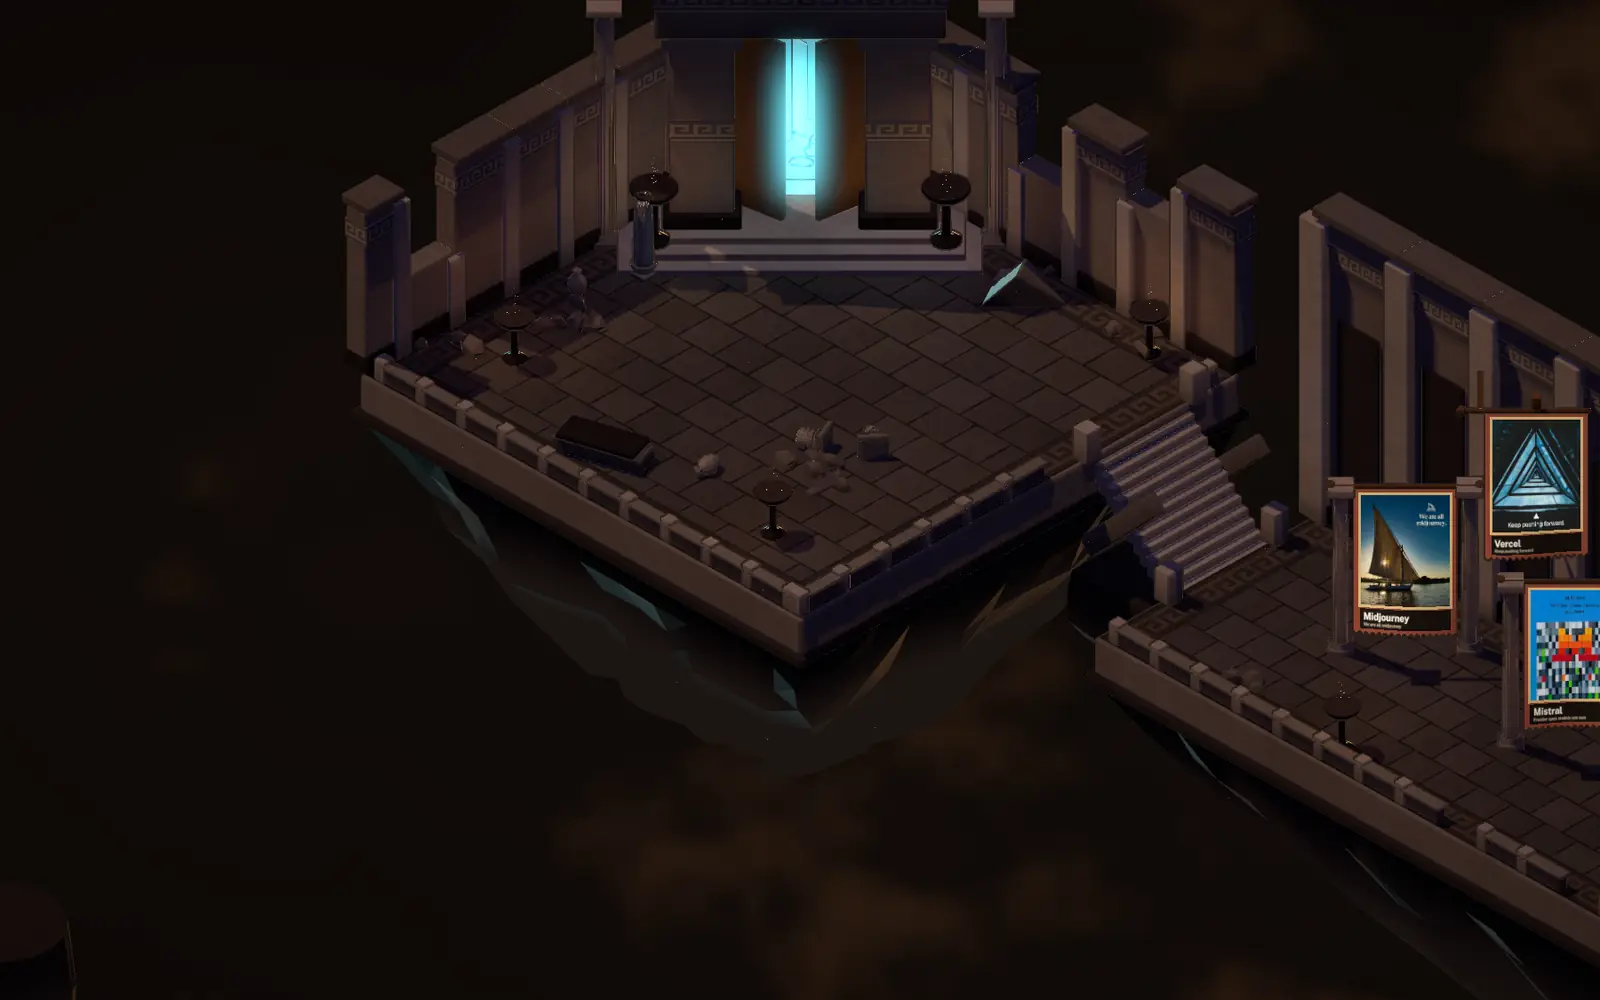
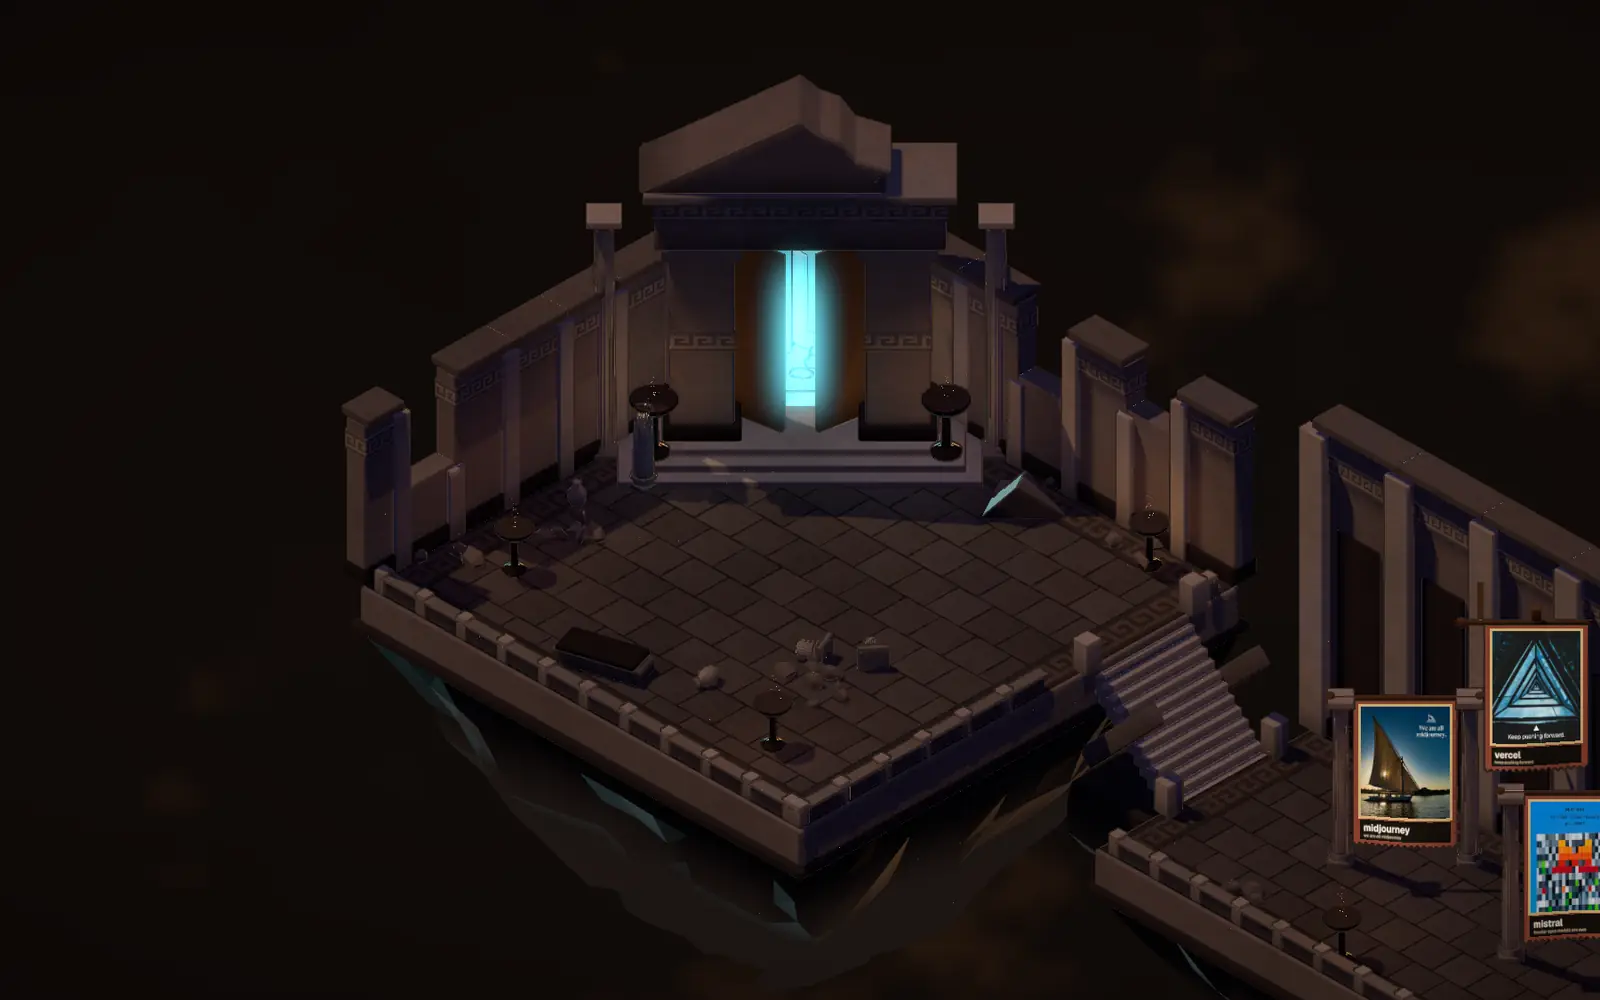
Hero: the arena's book-a-call ticket; no background gradient; the gate court framed below the name so the line sits on the void; ticket keeps its ink inside .ds

Changed region(s): [[0.2188, 0.0, 1.0, 1.0], [0.5938, 0.775, 0.6875, 0.837]]

diff --git a/src/styles/world.css b/src/styles/world.css
@@ -16,17 +16,12 @@
 .world-flow { position: relative; z-index: 1; pointer-events: none; }
 .world-flow a, .world-flow button, .world-flow .w-ads { pointer-events: auto; }
 
-/* the gate court: the name in his lettering at the top, the line under it, then the call; the void's ink falls
-   from the top edge behind them so they never sit on the busy part of the scene */
-.w-gate { display: flex; flex-direction: column; justify-content: flex-start; align-items: center; min-height: calc(100svh - var(--dock)); padding: calc(4 * var(--u) + 16px) var(--g) 0; background: linear-gradient(#100b09 0, rgb(16 11 9 / 0.88) 22%, rgb(16 11 9 / 0) 44%); }
+/* the gate court: the name in his lettering at the top, the line under it, then the call, over the void above the court */
+.w-gate { display: flex; flex-direction: column; justify-content: flex-start; align-items: center; min-height: calc(100svh - var(--dock)); padding: calc(4 * var(--u) + 16px) var(--g) 0; }
 .w-say { display: grid; justify-items: center; gap: 16px; text-align: center; }
 .w-gate .wm { width: min(44vw, 660px); margin: 0; padding: 0; gap: 1.1vw; color: #f8e3c2; }
 .w-say .hero-say { animation: fade 400ms 360ms both; max-width: 27em; color: #f8e3c2; font-size: clamp(18px, 1.45vw, 26px); line-height: 1.08; }
 .w-say .hero-sw > span { animation-duration: 700ms; }
-.w-say .hero-who { padding: 6px 18px 6px 6px; background: var(--ember); color: #140d09; animation-delay: 900ms; }
-.w-say .hero-who img { width: 36px; }
-.w-say .hero-who:hover { background: #f8e3c2; }
-.w-say .hero-who:hover span { color: inherit; }
 .w-sound { display: inline-flex; align-items: center; gap: 10px; padding: 8px 14px 8px 8px; border: 0; border-radius: 999px; background: #100b09; color: inherit; font: 600 15px/1 var(--f-bar); letter-spacing: -0.01em; cursor: pointer; animation: fade 500ms 900ms both; transition: background var(--t-fast); }
 .w-sound:hover { background: #2a1d16; }
 .w-sound-i { display: inline-flex; align-items: center; justify-content: center; gap: 3px; width: 30px; height: 30px; border-radius: 50%; background: #2b1f18; }

diff --git a/src/components/ds/Hero.tsx b/src/components/ds/Hero.tsx
@@ -1,5 +1,5 @@
-import Image from "next/image";
 import { BookLink } from "@/components/BookLink";
+import { BookCallB } from "@/components/cta/BookCallB";
 import { AdRing } from "@/components/ds/AdRing";
 import { Statement } from "@/components/ds/Statement";
 import { Wordmark } from "@/components/ds/Wordmark";
@@ -40,10 +40,7 @@ export function Hero() {
                 </span>
               ))}
             </p>
-            <BookLink src="home-hero" className="hero-who" cursor>
-              <Image src="/design/jawad-die.webp" alt="" width={697} height={781} sizes="44px" priority />
-              <span>book a 15 min call ↗</span>
-            </BookLink>
+            <BookCallB src="home-hero" size="hero" />
           </div>
         </div>
         <section className="w-hall" data-world-stop="hall" aria-labelledby="hall-h">

diff --git a/src/components/world/scene.ts b/src/components/world/scene.ts
@@ -117,7 +117,7 @@ export function mount(host: HTMLElement, o: WorldOpts) {
 
   // camera: the five shots (gate, hall in, hall out, theatre, landing), eased between, with a pull back mid-move
   const shots: Shot[] = [
-    { t: new THREE.Vector3(0, COURT.y + 3, 0).addScaledVector(UP, -9), h: 52, w: 70, floor: COURT.y },
+    { t: new THREE.Vector3(0, COURT.y + 3, 0).addScaledVector(UP, 2), h: 52, w: 70, floor: COURT.y },
     hall.shots[0],
     hall.shots[1],
     { t: THEATRE.c.clone().add(new THREE.Vector3(-1, 1.5, -1)), h: 56, w: 74, floor: THEATRE.c.y },

diff --git a/src/components/cta/bookcallB.css b/src/components/cta/bookcallB.css
@@ -27,6 +27,7 @@
   user-select: none;
   touch-action: manipulation;
 }
+.ds .bcb { color: var(--ink); }
 .bcb[data-size="hero"] { font-size: min(24px, 5.6vw); }
 .bcb[data-size="hero"] .bcb-arrow { stroke-width: 2.6; }
 .bcb::before { content: ""; position: absolute; inset: -0.3em; }
